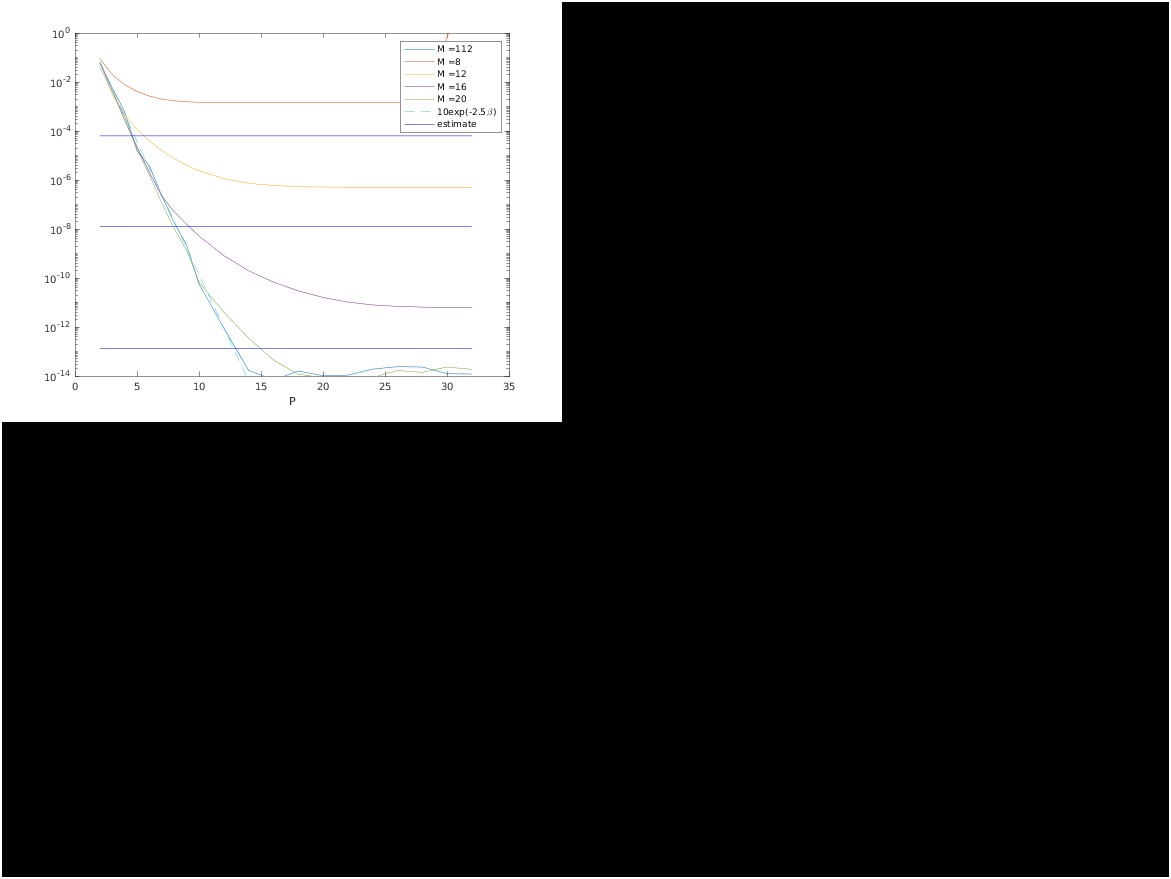
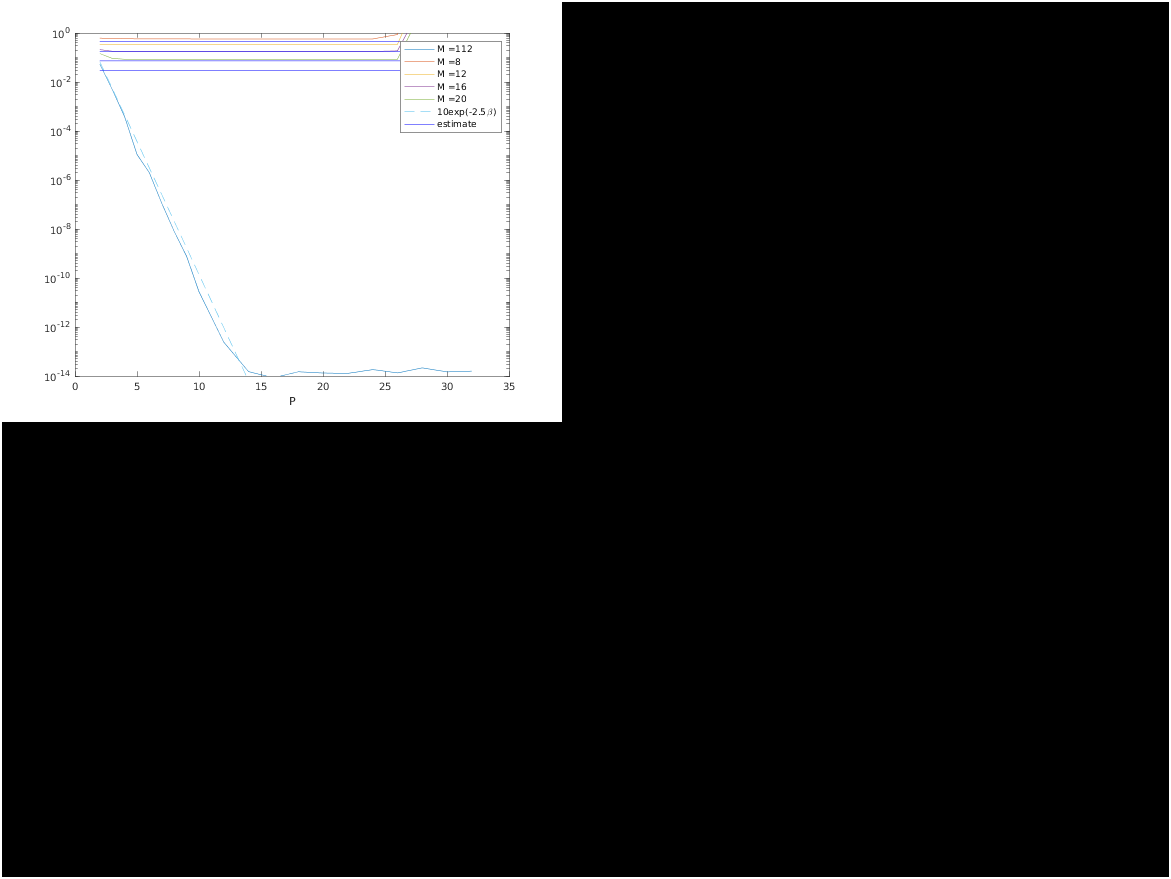
imgs

Changed region(s): [[0.0615, 0.0307, 0.3382, 0.3379], [0.3382, 0.3993, 0.3997, 0.43], [0.1845, 0.3686, 0.2152, 0.3993]]

diff --git a/SE_Stokes_run/SE3P_Stokes/P_error.m b/SE_Stokes_run/SE3P_Stokes/P_error.m
@@ -17,7 +17,7 @@ opt.box = box;
 
 M0 = 128; % Set M0=M/L, the restu * 1+ is automatic
 opt.M = M0*opt.box;
-opt.xi = 5;
+opt.xi = 25;
 opt.betaP = 2.5;
 opt.c = sqrt(0.91);
 %opt.window = 'kaiser_exact';
@@ -51,7 +51,7 @@ str = {};
 est = @(M,xi,L,f) sqrt(f)*(xi^3*L^2/(pi^4*(M/2)^(3/2)))*exp(-(pi*(M/2)/(xi*L))^2);
 e_vec = [];
 F = sum(norm(f.^2));
-A = @(a,b,c) sqrt(a)*b^(3/2)/c;
+A = @(a,b,c) sqrt(a)*b^(1/2)/sqrt(c);
 disp(num2str(A(F,opt.xi,opt.box(1))/rms_ref))
 for M = [112 MM]
 	
@@ -62,8 +62,7 @@ for M = [112 MM]
 	for P = PP
     		opt.P = P;
     		u = SE3P_Stokes(1:N, x, f, opt);
-    		rms_err = [rms_err rmse(u-ref)/rms_ref];
-		
+    		rms_err = [rms_err rmse(u-ref)/rms_ref];	
     end
     e = est(M,opt.xi,L,F);
     e_vec = [e_vec, e./rms_ref];

diff --git a/SE_Stokes_run/SE3P_Stokes/demo_final.m b/SE_Stokes_run/SE3P_Stokes/demo_final.m
@@ -6,7 +6,7 @@ opt.window = 'kaiser_exact';
 opt.box = [L,L,L];
 [x, f] = SE_charged_system(N,opt.box,'vector');
 
-opt.xi = 5;
+opt.xi = 10;
 tolerance = 10^(-10);
 opt.N = N;
 opt.x =x;
